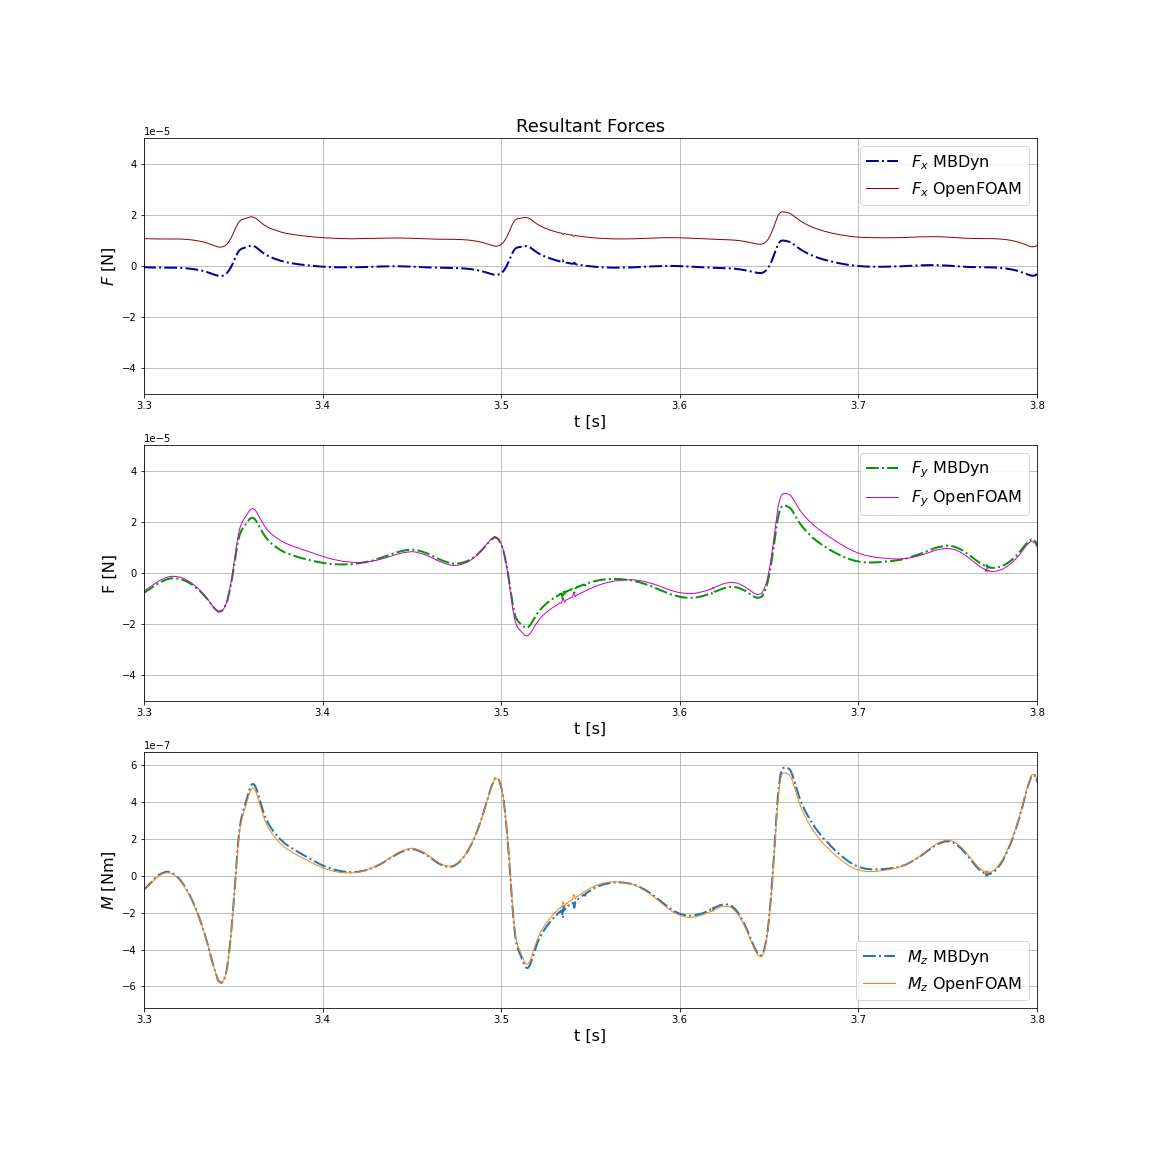
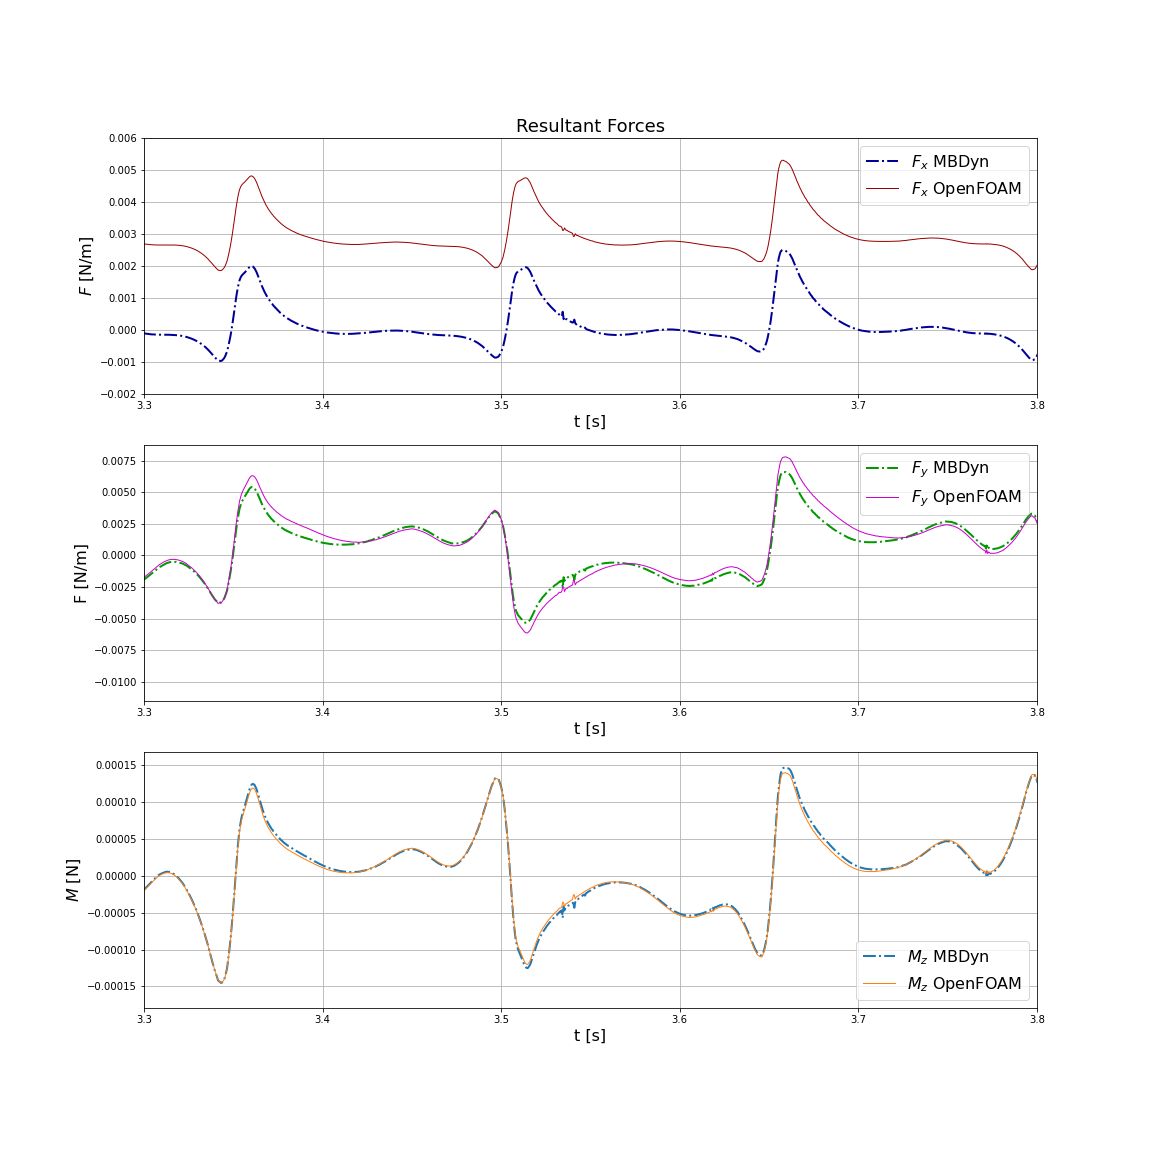
FSI2 updated figures and text

diff --git a/chapters/06_Testcases.tex b/chapters/06_Testcases.tex
@@ -899,7 +899,7 @@ Forces are measured on the whole structure on the fluid side, while are measured
 
 Each time step converges with an average of 8 iterations, except for some situations where the coupling algorithm fails in making coupling forces converge. Those situations show a quite distorted fluid mesh that make the overall FSI problem harder to solve.
 
-An average higher number of iterations agrees with the fact that a higher mass number, here in the order of $\mathcal{O} \left(10^{-2} \right) $, makes the problem strongly coupled.
+An higher average number of iterations agrees with the fact that a higher mass number, here in the order of $\mathcal{O} \left(10^{-2} \right) $, makes the problem strongly coupled.
 
 \begin{figure}[htbp!]
 	\centering
@@ -1055,7 +1055,7 @@ The properties of the solid are reported in Table \ref{table:FSI2-solid}.
 	\label{table:FSI2-solid}
 \end{table}
 
-The MBDyn model the sdame as the one used in \ref{sec:sq-cyl-bench} and is composed of 10 \texttt{beam3} elements, with a structural damping of $1\cdot10^{-2}$.
+The MBDyn model the same as the one used in \ref{sec:sq-cyl-bench} and is composed of 10 \texttt{beam3} elements, with a structural damping of $1\cdot10^{-2}$.
 
 The interface mesh is divided into 90 faces and is shown in Figure \ref{fig:FSI2_struct_mesh}. 
 
@@ -1113,7 +1113,7 @@ The problem considered is characterized by the adimensional parameters given in 
 
 In this case, the ramp applied to fluid forces are applied at the beginning of the simulation is longer in order to make the fluid and structure settle: during the first $500$ \si{ms} forces are scaled to $10\%$ and reach $100\%$ after another $500$ \si{ms}.
 
-Alternating vortices begin developing and the flap begins oscillating with an increasing amplitude. After around 4 seconds reaches a vortex lock-in regime, as shown in Figure \ref{fig:sq_displacement} (in particular the tip displacement in \textit{y} direction).
+Alternating vortices begin developing and the flap begins oscillating with an increasing amplitude. After around 4 seconds reaches a vortex lock-in regime, as shown in Figure \ref{fig:FSI2_displacement} (in particular the tip displacement in \textit{y} direction).
 
 
 
@@ -1127,18 +1127,17 @@ Alternating vortices begin developing and the flap begins oscillating with an in
 
 \begin{figure}[htbp!]
 	\centering
-	\includegraphics[width=0.98\textwidth, trim=20 20 20 50, clip]{images/sq-cyl/disp_sq.png}
+	\includegraphics[width=0.98\textwidth, trim=20 20 50 50, clip]{images/FSI2/disp_fsi2.png}
 	\caption{square cylinder: tip displacement}
-	\label{fig:sq_displacement}
+	\label{fig:FSI2_displacement}
 \end{figure}
 
-Forces are measured on the whole structure on the fluid side, while are measured on the flap in the solid domain. Figure \ref{fig:sq_force} shows a detail of $0.5$ \si{s} of simulation. The difference in \textit{x}-direction represents the drag force on the cylinder. Differences in lift and moment are almost zero. 
-
+Forces are measured on the whole structure on the fluid side, while are measured on the flap in the solid domain. Figure \ref{fig:FSI2_force} shows a detail of $2$ \si{s} of simulation. The difference in \textit{x}-direction represents the drag force on the cylinder.
 \begin{figure}[htbp!]
 	\centering
-	\includegraphics[width=0.98\textwidth, trim=20 100 20 100, clip]{images/sq-cyl/forces_sq.png}
+	\includegraphics[width=0.98\textwidth, trim=20 100 20 100, clip]{images/FSI2/forces_fsi2.png}
 	\caption{Square cylinder: resultant forces (detail)}
-	\label{fig:sq_force}
+	\label{fig:FSI2_force}
 \end{figure}
 
 
@@ -1186,24 +1185,22 @@ Forces are measured on the whole structure on the fluid side, while are measured
 \end{figure}
 
 
-Each time step converges with an average of 8 iterations, except for some situations where the coupling algorithm fails in making coupling forces converge. Those situations show a quite distorted fluid mesh that make the overall FSI problem harder to solve.
-
-An average higher number of iterations agrees with the fact that a higher mass number, here in the order of $\mathcal{O} \left(10^{-2} \right) $, makes the problem strongly coupled.
+Each time step converges with an average of 14.5 iterations, which again confirms the trend of more coupling iterations as the mass number increases.
 
 \begin{figure}[htbp!]
 	\centering
-	\includegraphics[width=0.95\textwidth, trim=0 80 0 100, clip]{images/sq-cyl/MBD_iterations_sq.png}
-	\caption{square cylinder: convergence and iterations}
-	\label{fig:sq_mbd_iter}
+	\includegraphics[width=0.95\textwidth, trim=0 80 0 100, clip]{images/FSI2/MBD_iterations_fsi2.png}
+	\caption{FSI2: convergence and iterations}
+	\label{fig:FSI2_mbd_iter}
 \end{figure}
 
-As in the previous examples, the axial, shear and bending moment in each of the MBDyn elements are plotted in Figure \ref{fig:sq_mbd_internal}: in this case a temporal slice of $0.5s$ has been considered.
+As in the previous examples, the axial, shear and bending moment in each of the MBDyn elements are plotted in Figure \ref{fig:sq_mbd_internal}: in this case a temporal slice of $25s$ has been considered. The values plotted here consider a beam with $2mm$ width: i.e. the thichness of the solid and fluid domains considered in this case.
 
 \begin{figure}[htbp!]
 	\centering
-	\includegraphics[width=0.92\textwidth, trim=0 230 0 230, clip]{images/sq-cyl/sq-flap_OF-MBDyn_act.png}
-	\caption{square cylinder: MBDyn internal forces (detail)}
-	\label{fig:sq_mbd_internal}
+	\includegraphics[width=0.92\textwidth, trim=0 230 0 230, clip]{images/FSI2/FSI2_OF-MBDyn_act.png}
+	\caption{FSI2: MBDyn internal forces (detail)}
+	\label{fig:FSI2_mbd_internal}
 \end{figure}
 
 
